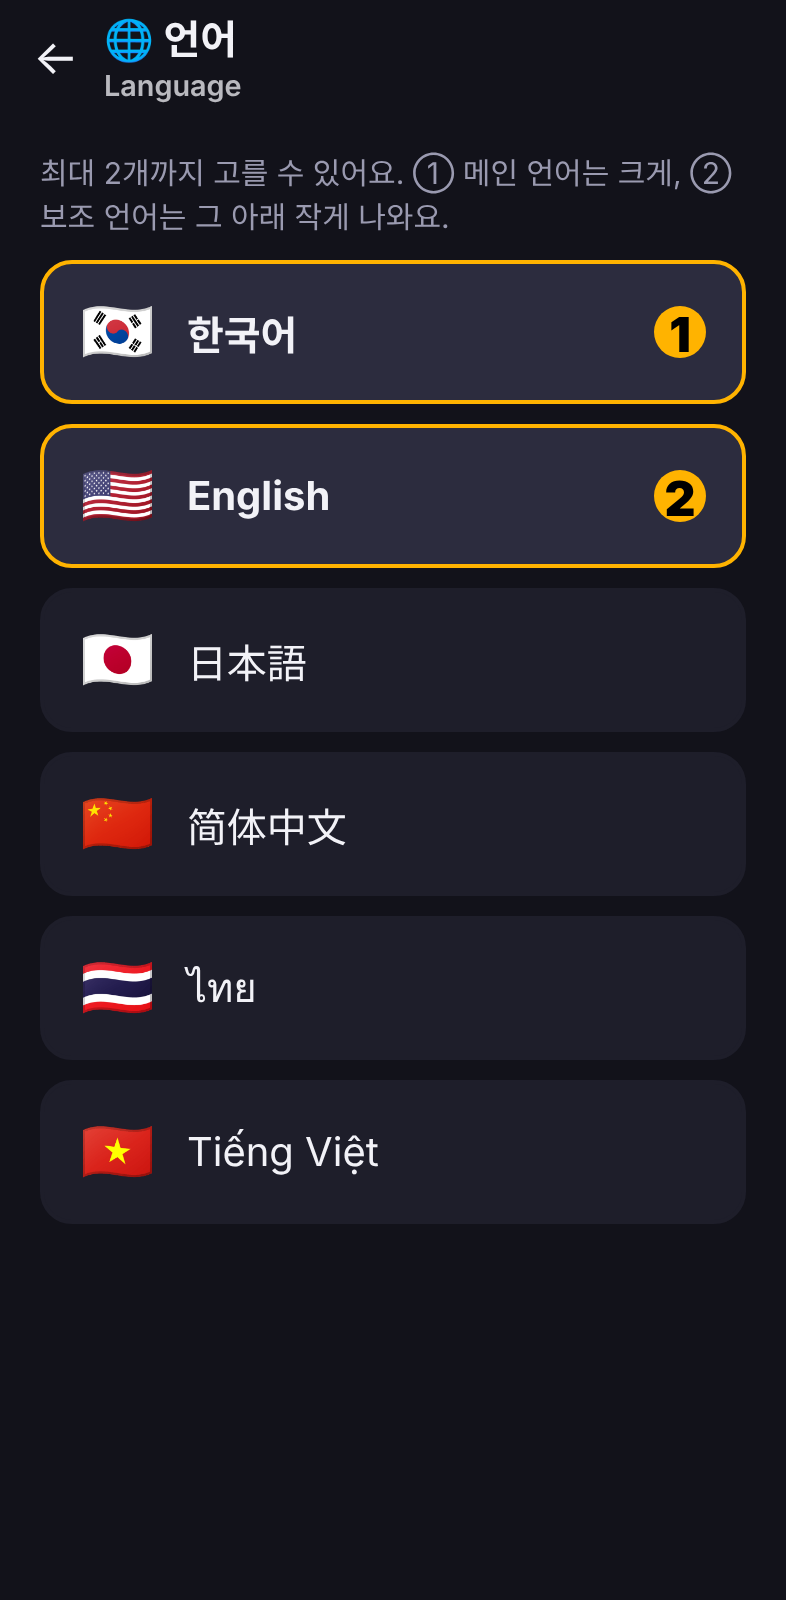
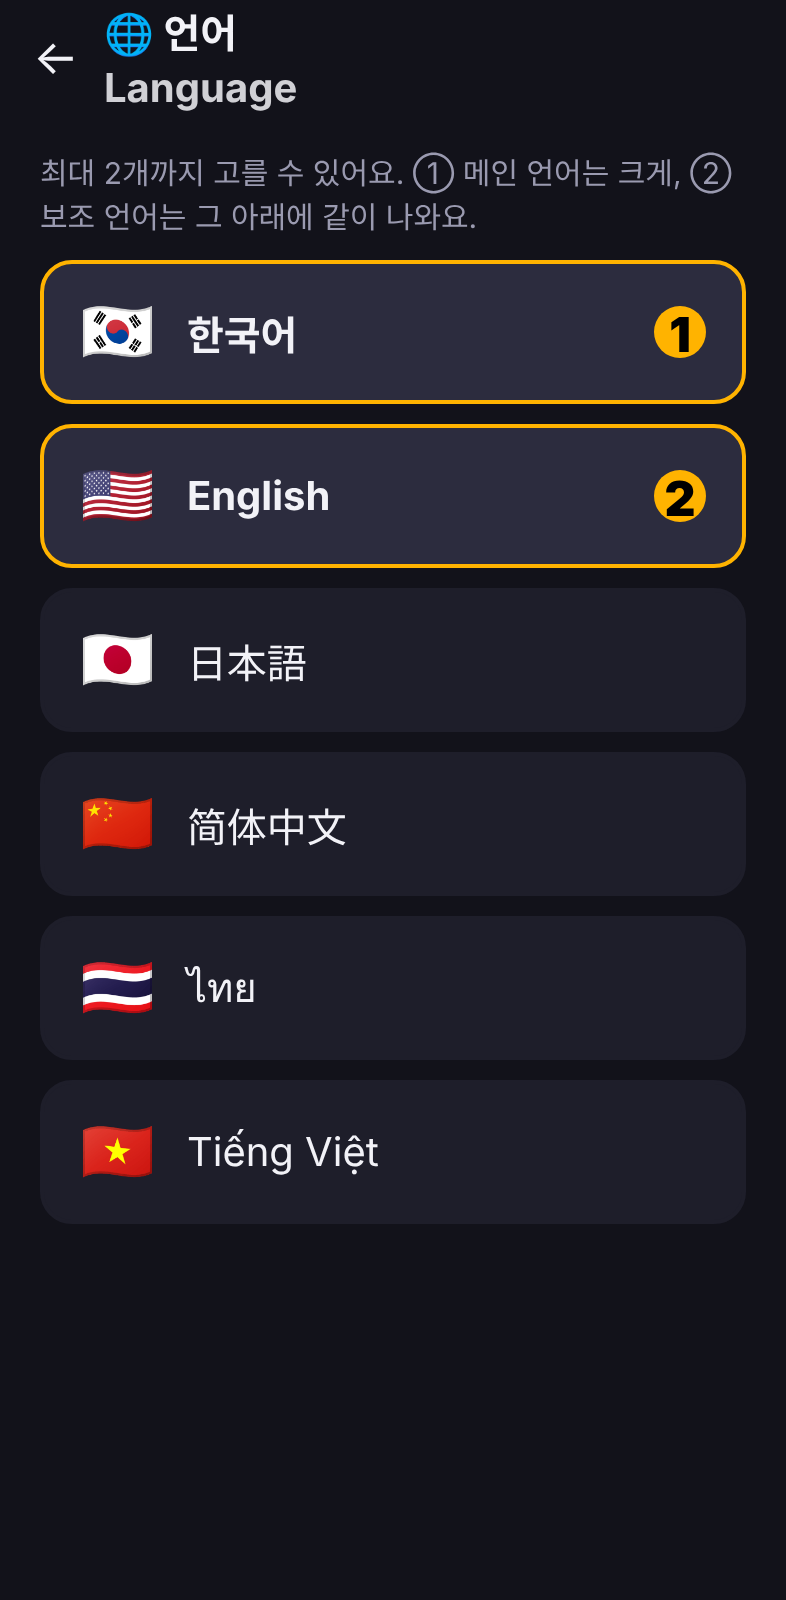
시안: 두 언어 보기 글씨 크기 같게, 겹치는 이모지 빼기
Claude-Session: https://claude.ai/code/session_013mN1tc9XfbmBn9GeSidaFd

Changed region(s): [[0.1221, 0.0, 0.3664, 0.0625], [0.3664, 0.125, 0.6107, 0.1562]]

diff --git a/docs/BACKLOG.md b/docs/BACKLOG.md
@@ -259,7 +259,8 @@
 
 ### 🌐 두 언어 같이 보기 (2026-10-29 메모, 시안 `docs/samples/dual-lang/dual_lang.png`)
 - 외국 친구랑 할 때: 언어 화면에서 **최대 2개** 선택 (① 메인 · ② 보조), 1개만 고르면 지금처럼 1개
-- 2개면 **모든 화면·모든 게임** 문구가 메인 언어 크게 + 그 아래 보조 언어 작게 (버튼 · 제목 · 메뉴 · 설명 · 게임 안 글자 · 결과 배지)
+- 2개면 **모든 화면·모든 게임** 문구가 메인 언어 + 그 아래 보조 언어 **같은 글씨 크기**로 (보조 언어만 살짝 흐리게) — 버튼 · 제목 · 메뉴 · 설명 · 게임 안 글자 · 결과 배지
+- 두 언어 앞에 같은 이모지가 있으면 두 번째 줄에선 빼기 (⭕ 맞춤! / Right!)
 - 긴 설명은 메인 문단 아래 보조 문단
 - 방식: 문구를 가져올 때 두 언어를 묶어서 넘기고, 화면에 그릴 때 둘로 나눠 크기만 다르게 (앱·웹 모두)
 - 주의: 좁은 칸(원형 분할 게임)은 글자가 작아짐 → 게임마다 확인하며 맞추기
